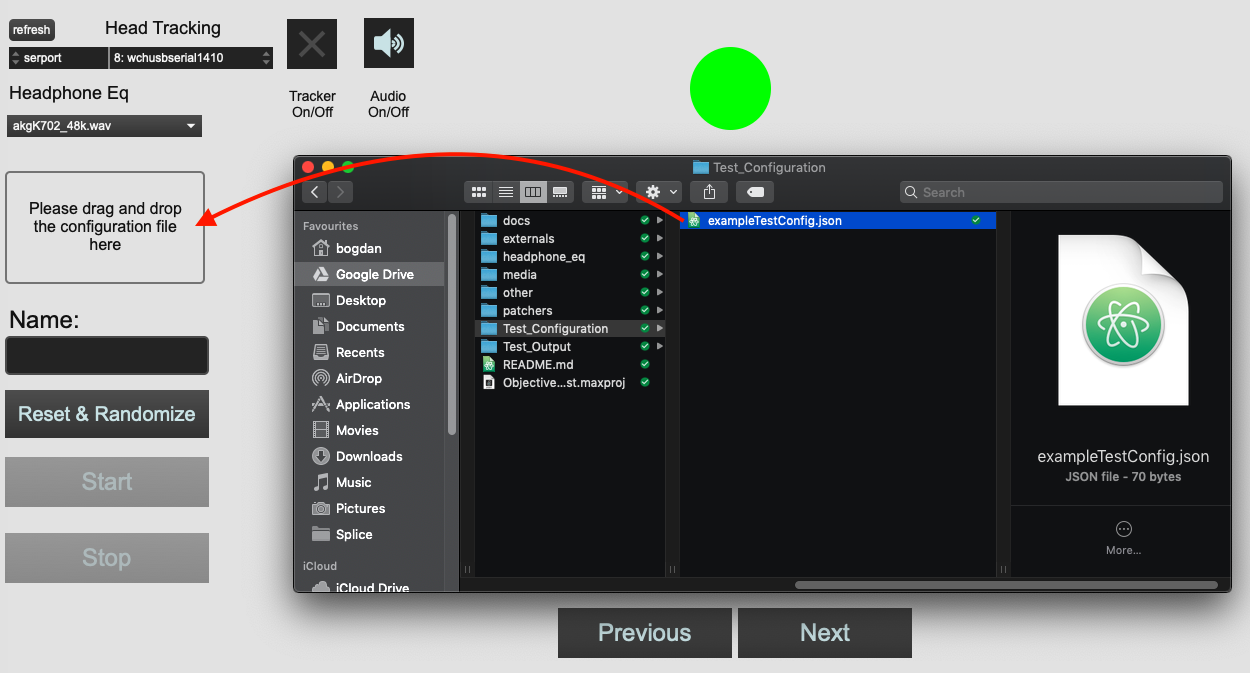
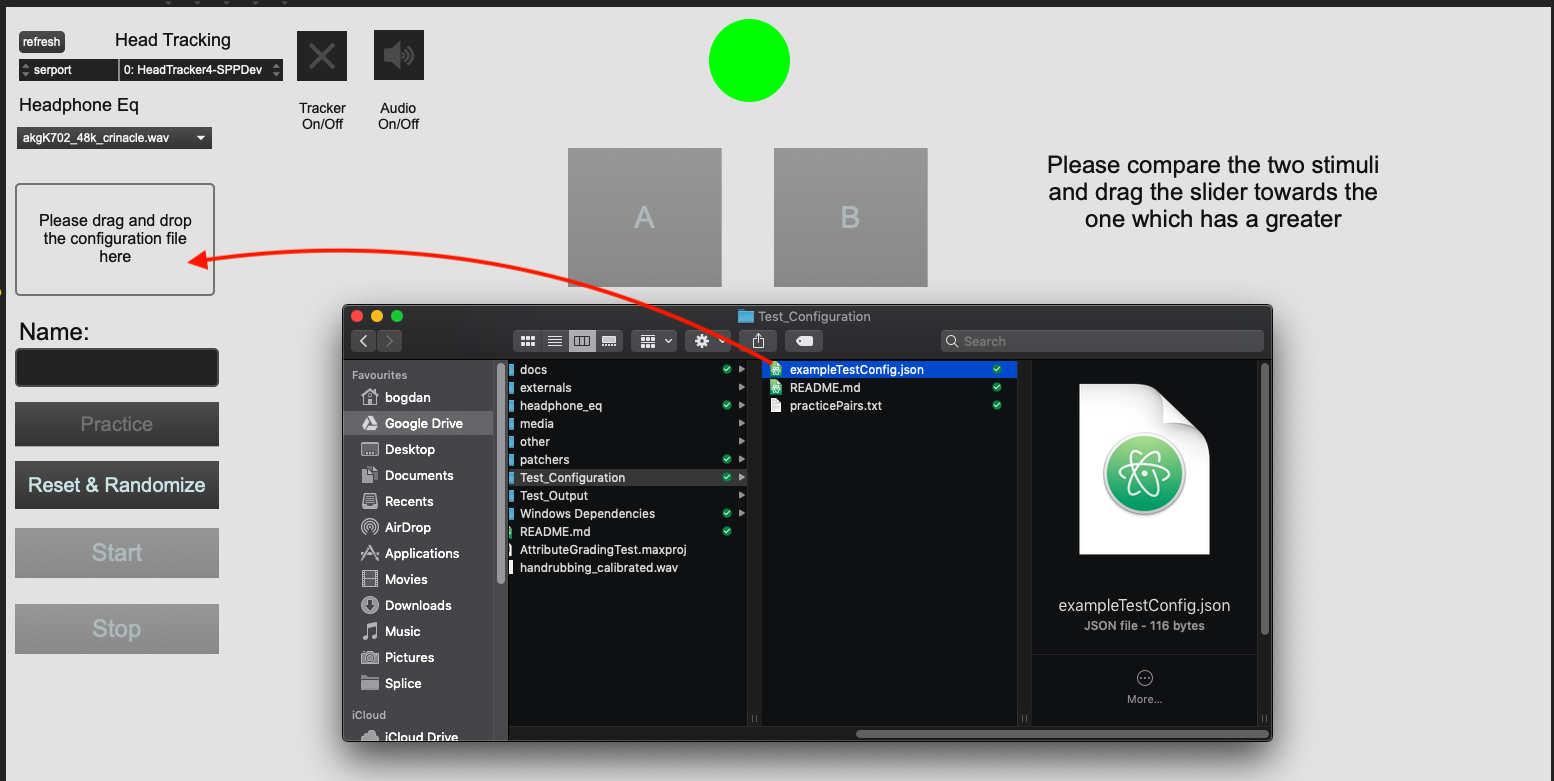
[update] readme

diff --git a/README.md b/README.md
@@ -5,7 +5,7 @@
 1. Install the CH340 USB-Serial driver. Instructions for Mac and Windows are available here: https://sparks.gogo.co.nz/ch340.html
 2. Install Max/MSP: https://cycling74.com/downloads You don't need a subscription in order to run the test. After the 30 day trial you can still run any patch but without being able to save.
 
-# Windows users
+### Windows users
 
 For the binauralisation functions to work, you will need to place some extra DLL files in your Max install folder. These are in the "Windows Dependencies" folder of the latest release. Depending on the bit-ness you use, these should be placed in either:
 
@@ -23,9 +23,8 @@ For the binauralisation functions to work, you will need to place some extra DLL
 
 ## Opening the test
 
-To launch the listening test please locate the "GradingTest.maxproj" and open it using Max. **Please note that the test will take a few moments to load, sometimes even up to more than a minute.**
+To launch the listening test please locate the "AttributeGradingTest.maxproj" and open it using Max. **Please note that the test will take a few moments to load, sometimes even up to more than a minute.**
 
-- If no patcher opens up automatically upon project load, please double click the "main.maxpat" patcher from the project menu.
 
 ![project_location](docs/project_location.png)
 
@@ -34,7 +33,7 @@ To launch the listening test please locate the "GradingTest.maxproj" and open it
 
 1. Connect the head tracker to the computer using a USB-Mini-B cable.
 2. Locate the "Head Tracking" section in the upper-left corner of the Max patch.
-3. Select the **"wchusbserial1410"** option in the dropdown menu; If you can not find the option, press the refresh button and it should now appear. If it still does not appear please make sure that you installed the CH340 drivers correctly and logged out or restarted the machine such that changes were applied.
+3. Select the **"wchusbserial1410"** (for Mac) or **"COMxx"** (for Windows, depending on the serial port used for the tracker) option in the dropdown menu; If you can not find the option, press the refresh button and it should now appear. If it still does not appear please make sure that you installed the CH340 drivers correctly and logged out or restarted the machine such that changes were applied.
 4. Activate the head tracking by pressing the "Tracker On/Off" button.
 
 ![ht_connect](docs/ht_connect.png)
@@ -73,8 +72,11 @@ To launch the listening test please locate the "GradingTest.maxproj" and open it
 
 ![config_file](docs/config_file.png)
 
-4. Type your name in the name box:
-5. To start a short practice run press the button labeled  **"Practice"**
+4. Type your surname in the name box. Please don't include any special characters in this field (i.e. space, return):
+5. To start a short practice run press the button labeled  **"Practice"**. A red border will indicate that practice mode is active.
+
+![practice](docs/practice.png)
+
 6. Press **"Reset and Randomize"**
 7. When you are ready to start the test press **"Start"**. You can now start the listening test. Please note that the the "Next" and "Previous" options will be disabled until all the sliders are moved.
 8. When you are finished, don't forget to press the **"Stop"** button. This will save your results in the "Test_Ouptut" folder.
